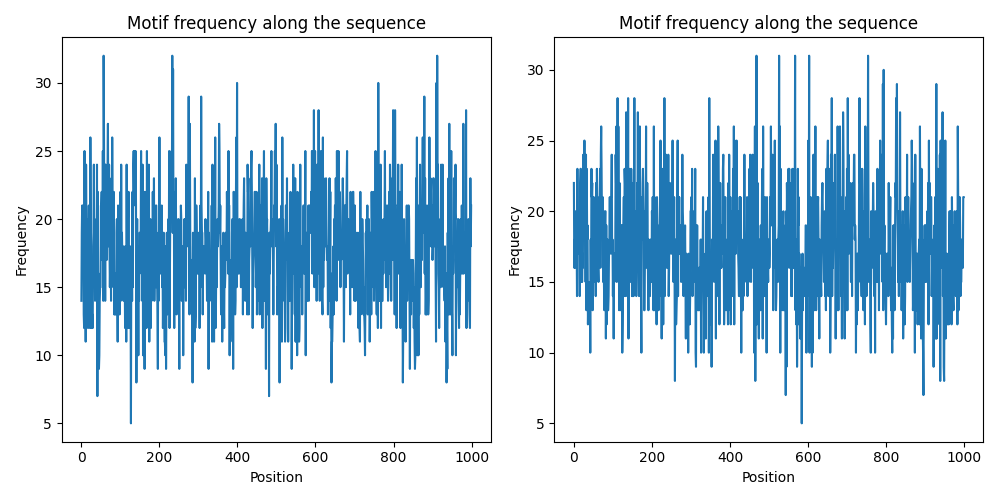
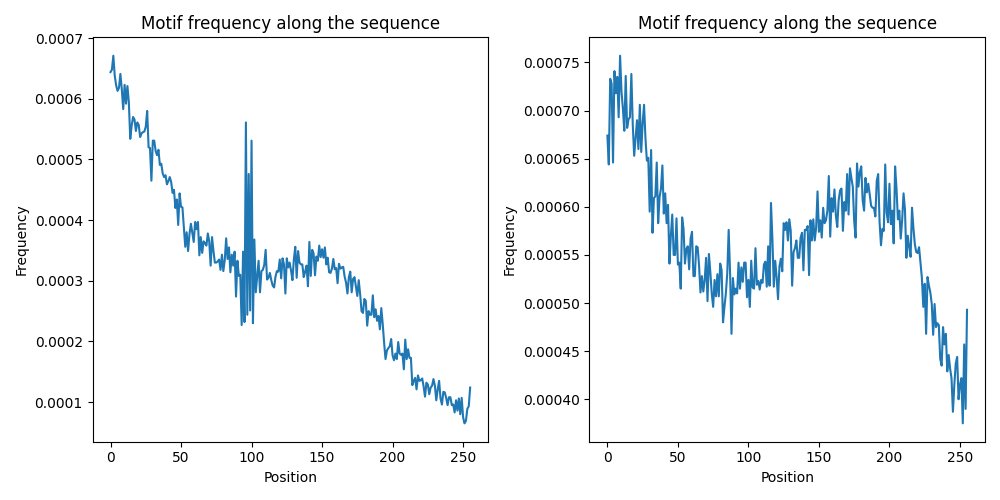
Add lcs metric and numba version

diff --git a/src/utils/metrics.py b/src/utils/metrics.py
@@ -5,8 +5,12 @@
 import torch
 import numpy as np
 import time
-
-
+import matplotlib.pyplot as plt
+import seaborn as sns
+import numba
+from scipy.spatial.distance import cdist
+from numba.typed import Dict, List
+from numba import types
 ######## DIVERSITY ########
 def count_ngrams(one_hot: np.ndarray, n: int):
     """Efficiently counts unique n-grams using vectorized operations."""
@@ -36,7 +40,7 @@ def diversity(one_hot: torch.Tensor | np.ndarray, n_min: int = 10, n_max: int = 
     product of ratios between the unique amount of n-grams found in a set of generated DNA sequences D
     and the number of n-grams found.
     
-    ref: DiscDiff, it searches for all n-grams with n \in [10, 11, 12]
+    ref: DiscDiff, it searches for all n-grams with n \\in [10, 11, 12]
 
     This metric assesses the variety within the generated DNA sequences
     """
@@ -69,11 +73,237 @@ def s_fid_inception_distance():
     pass
 
 ######### LENGTH OF LONGEST ALIGNMENT ########
-def longest_alignment(ref: np.ndarray | torch.Tensor, gen: np.ndarray | torch.Tensor):
+
+def prepare_lcs(ref, gen):
+    ref_indices = np.array([prepare_single_seq_lcs(seq) for seq in ref])
+    gen_indices = np.array([prepare_single_seq_lcs(seq) for seq in gen])
+    print("ref_indices: ", ref_indices.shape)
+    print("gen_indices: ", gen_indices.shape)
+    return ref_indices, gen_indices
+
+def prepare_single_seq_lcs(one_hot_seq):
+    """
+    This function prepares the input to the longest_alignment function.
+    """
+    # Convert one-hot encoded sequences to character sequences
+    # The numpy array are N x 256 x 5
+    # The third dimension is the one-hot encoding of the sequence in order "ACGTN"
+    # We need to convert it to a sequence of characters
+    return np.argmax(one_hot_seq, axis=-1)
+    # Convert to list of strings
+
+def filter_only_promising_pairs(ref, gen, th: float = 0.3):
+    """
+    Compute hamming distance"
+    """
+    dist_matrix = cdist(ref, gen, metric="hamming")
+    return np.argwhere(dist_matrix < th)
+
+@numba.njit(parallel=True)
+def numba_compute_hamming_distance(ref, gen):
+    """
+    Compute the Hamming distance between two sets of one-hot encoded sequences.
+    
+    ref: (N, 256, 5) NumPy array
+    gen: (M, 256, 5) NumPy array
+    
+    Returns:
+        dist_matrix: (N, M) NumPy array with Hamming distances.
+    """
+    N, _ = ref.shape
+    M, _ = gen.shape
+    dist_matrix = np.zeros((N, M), dtype=np.float32)
+
+    for i in numba.prange(N):
+        for j in range(M):
+            dist_matrix[i, j] = np.sum(ref[i] != gen[j]) / ref.shape[1]  # Hamming distance
+
+    return dist_matrix
+
+def compute_lcs(ref,gen):
+    ref_indices, gen_indices = prepare_lcs(ref, gen)
+    filtered_pairs = filter_only_promising_pairs(ref_indices, gen_indices)
+    lcs_results = {}
+    max_seq_length = 500
+    for i, j in filtered_pairs:
+        lcs_results[(i, j)] = longest_alignment(ref_indices[i], gen_indices[j], max_seq_length)
+    return lcs_results
+
+
+ #Define the types for the numba functions
+key_type = numba.types.UniTuple(numba.types.int32, 2)
+value_type = numba.types.ListType(types.UniTuple(types.int32,2))
+@numba.njit(cache=True, parallel=True)
+def numba_compute_lcs(ref_indices, gen_indices):
+    dist_matrix = numba_compute_hamming_distance(ref_indices, gen_indices)
+
+    # Filter pairs based on a distance threshold
+    threshold = 0.3
+    filtered_pairs = [(i, j) for i in range(dist_matrix.shape[0]) 
+                              for j in range(dist_matrix.shape[1]) if dist_matrix[i, j] < threshold]
+
+    # Define the type of results explicitly
+    results = List()  # Use Numba-typed List
+    for _ in range(len(filtered_pairs)):
+        # Initialize each element as a tuple of the correct type
+        results.append(((0, 0), List.empty_list(key_type)))
+
+    # Parallel loop to compute LCS
+    N = len(filtered_pairs)
+    for idx in numba.prange(N):
+        i, j = filtered_pairs[idx]
+        lcs_pairs = numba_longest_alignment(ref_indices[i], gen_indices[j])
+
+        typed_lcs_pairs = List.empty_list(key_type)
+        for pair in lcs_pairs:
+            typed_lcs_pairs.append(pair)
+        
+        key = (np.int32(i), np.int32(j))
+        results[idx] = (key, typed_lcs_pairs)  # This is now type-consistent
+
+    # Convert results to a dictionary
+    lcs_results = Dict.empty(
+        key_type=key_type,
+        value_type=value_type,
+    )
+    for (i, j), lcs in results:
+        lcs_results[(i, j)] = lcs
+
+    return lcs_results
+   
+def longest_alignment(A, B):
     """
     This function computes the length of the longest alignment between two sets of DNA sequences.
     """
-    pass
+    import bisect
+    # reconvert array to sequence of characters
+    m, n = len(A), len(B)
+
+    # Step 1: build linked lists
+    matchlist = [[] for k in range(m + 1)]
+    # Note line numbers in reverse order
+    aa = sorted(zip(A, range(1, m+1)), key=lambda t: (t[0], -t[1]))
+    bb = sorted(zip(B, range(1, n+1)), key=lambda t: (t[0], -t[1]))
+    ai = bi = 0
+    while ai < m and bi < n:
+        av, bv = aa[ai][0], bb[bi][0]
+        if av < bv:
+            ai += 1
+        elif av > bv:
+            bi += 1
+        else:
+            k = aa[ai][1]
+            while bi < n and bb[bi][0] == bv:
+                matchlist[k] += [bb[bi][1]]
+                bi += 1
+            ai += 1
+            while ai < m and aa[ai][0] == av:
+                matchlist[aa[ai][1]] = matchlist[k]
+                ai += 1
+
+    # Step 2: initialize the THRESH array
+    thresh = [n+1] * (m + 1)
+    thresh[0] = 0
+
+    # Step 3: compute successive THRESH values
+    link = [None] * (m+1)
+    for i in range(1, m+1):
+        for j in matchlist[i]:
+            #find k such that thresh[k-1] < j <= thresh[k]
+            k = bisect.bisect_left(thresh, j)
+            #assert thresh[k-1] < j <= thresh[k]
+            if j < thresh[k]:
+                thresh[k] = j
+                link[k] = (i, j, link[k-1])
+                #print(f'dmatch({i}, {j})')
+                #assert A[i-1] == B[j-1]
+
+    # Step 4: recover longest common subsequence pairs in reverse order
+    k = 0
+    while k < m and thresh[k+1] != n + 1:
+        k += 1
+    p = link[k]
+    # v will hold (i,j) pairs
+    v = []
+    while p != None:
+        v.append(p[:2])
+        p = p[2]
+    v.reverse()
+
+    #print(f'lcslen: {len(v)=}')
+    return v
+
+@numba.njit(cache=True)
+def numba_longest_alignment(A, B):
+    m, n = len(A), len(B)
+
+    # Define the type of matchlist explicitly
+    matchlist = List()
+    for _ in range(m + 1):
+        matchlist.append(List.empty_list(types.int32))  # Inner lists are of type List(int32)
+    # Prepare NumPy arrays for sorting
+    aa = np.zeros((m, 2), dtype=np.int32)
+    bb = np.zeros((n, 2), dtype=np.int32)
+    
+    for i in range(m):
+        aa[i, 0] = A[i]
+        aa[i, 1] = i + 1
+    for i in range(n):
+        bb[i, 0] = B[i]
+        bb[i, 1] = i + 1
+
+    aa_sorted = aa[np.argsort(aa[:, 0])]
+    bb_sorted = bb[np.argsort(bb[:, 0])]
+
+    # Build matchlist
+    ai = bi = 0
+    while ai < m and bi < n:
+        av, bv = aa_sorted[ai, 0], bb_sorted[bi, 0]
+        if av < bv:
+            ai += 1
+        elif av > bv:
+            bi += 1
+        else:
+            k = aa_sorted[ai, 1]
+            matches = List.empty_list(types.int32)
+            while bi < n and bb_sorted[bi, 0] == bv:
+                matches.append(bb_sorted[bi, 1])
+                bi += 1
+            matchlist[k] = matches
+            ai += 1
+
+    # Initialize THRESH array
+    thresh = np.full(m + 1, n + 1, dtype=np.int32)
+    thresh[0] = 0
+
+    # Initialize link array
+    link = np.full((m + 1, 2), -1, dtype=np.int32)
+
+    # Compute successive THRESH values
+    for i in range(1, m + 1):
+        if matchlist[i]:
+            for j in matchlist[i]:
+                k = 0
+                while k < m and thresh[k] < j:
+                    k += 1
+                if j < thresh[k]:
+                    thresh[k] = j
+                    link[k] = [i, j]
+
+    # Recover longest common subsequence pairs
+    k = 0
+    while k < m and thresh[k + 1] != n + 1:
+        k += 1
+
+    # Backtrace
+    v = []
+    p = k
+    while p >= 0:
+        if link[p, 0] != -1:
+            v.append((link[p, 0], link[p, 1]))
+        p -= 1
+
+    return v[::-1]  # Reverse order
 
 ######## MOTIF CORRELATION ########
 def find_subsequence(one_hot, subsequence: str, char_list: str = "ACGNT"):
@@ -100,23 +330,21 @@ def plot_motif_frequence_position(distr, fig, ax):
     ax.set_ylabel("Frequency")
     return ax
 
-def motif_correlation(one_hot1, one_hot2, motif:str="TATAWAW", onehot: str = "ACGTN"):
-    distr1 = find_subsequence(one_hot1, motif, onehot).sum(axis=0) if isinstance(one_hot1, np.ndarray) else find_subsequence(one_hot1, motif, onehot).float().sum(dim=0)
-    distr2 = find_subsequence(one_hot2, motif, onehot).sum(xis=0) if isinstance(one_hot2, np.ndarray) else find_subsequence(one_hot2, motif, onehot).float().sum(dim=0)
+def motif_correlation(one_hot1, one_hot2, motif:str="TATAWAW", onehot: str = "ACGTN", figname:str = "motif_correlation.png"):
+    distr1 = find_subsequence(one_hot1, motif, onehot).mean(axis=0) if isinstance(one_hot1, np.ndarray) else find_subsequence(one_hot1, motif, onehot).float().mean(dim=0)
+    distr2 = find_subsequence(one_hot2, motif, onehot).mean(axis=0) if isinstance(one_hot2, np.ndarray) else find_subsequence(one_hot2, motif, onehot).float().mean(dim=0)
 
     # Plot the motif frequency along the sequence
     # TODO: fix style of the plot
-    import seaborn as sns
-    import matplotlib.pyplot as plt
     fig, ax = plt.subplots(1, 2, figsize=(10, 5))
     ax[0] = plot_motif_frequence_position(distr1, fig, ax[0])
     ax[1] = plot_motif_frequence_position(distr2, fig, ax[1]) 
     fig.tight_layout()
-    fig.savefig("distr.png")
+    fig.savefig(figname)
 
     # TODO: do we want to use the average position across sequences of each dataset or the frequency to evaluate correlation?
-    average_distr1 = distr1 / one_hot1.shape[0]
-    average_distr2 = distr2 / one_hot2.shape[0]
+    #average_distr1 = distr1 / one_hot1.shape[0]
+    #average_distr2 = distr2 / one_hot2.shape[0]
     if isinstance(one_hot1, np.ndarray) and isinstance(one_hot2, np.ndarray):
         return np.corrcoef(distr1, distr2)[0,1]
     elif isinstance(one_hot1, torch.Tensor) and isinstance(one_hot2, torch.Tensor):
@@ -124,21 +352,56 @@ def motif_correlation(one_hot1, one_hot2, motif:str="TATAWAW", onehot: str = "AC
     else:
         raise TypeError("Both inputs must be of the same type, either numpy arrays or torch tensors")
 
+
 if __name__ == "__main__":
     # Generate a tensor of 100x5 one hot encoded sequences
-    ref = torch.randint(0, 2, (1000, 1000, 5))
-    gen = torch.randint(0, 2, (1000, 1000, 5))
-    # convert tensors to numpy array
-    print("Computing motif correlation...")
-    tic = time.time()
-    corr = motif_correlation(ref, gen)
-    toc = time.time()
-    print(f"Motif correlation computed in {toc - tic:.2f}s as value {corr}")
-    print("Computing diversity...")
-    tic = time.time()
-    gen = gen.numpy()
-    ref = ref.numpy()
-    div_perc_delta = delta_diversity(ref, gen)
-    toc = time.time()
-    print(f"Diversity of generated sequences and ref sequences in {toc-tic:.2f}s with delta {div_perc_delta:.3f}%")
-    toc = time.time()
+    import os
+    from pathlib import Path
+    current_dir = Path(os.getcwd())
+    data_dir = current_dir / "data"
+    ref = np.load(data_dir / "dataset_compressed.npz")
+    gen = np.load(data_dir / "generated.npz")
+
+    print(ref.keys, ref["data"].shape, type(ref))
+    print(gen.keys, gen["data"].shape, type(gen))
+    
+    # WORK WITH A SUBSET
+    N_list = [1e3, 1e4, 1e5, 1e6]
+    for N in N_list:
+        N = int(N)
+        print(f"Working with a subset of {N} sequences")
+    # randomly sampled without replacement
+        if N > ref["data"].shape[0] or N > gen["data"].shape[0]:
+            N = min(ref["data"].shape[0], gen["data"].shape[0])
+        ref_indices = np.random.choice(ref["data"].shape[0], N, replace=False)
+        gen_indices = np.random.choice(gen["data"].shape[0], N, replace=False)
+        ref_data = ref["data"][ref_indices]
+        gen_data = gen["data"][gen_indices]
+         #convert tensors to numpy array
+        #print("Computing motif correlation...")
+        #tic = time.time()
+        #corr = motif_correlation(ref_data, gen_data, figname=f"motif_correlation_{N}.png")
+        #toc = time.time()
+        #print(f"Motif correlation computed in {toc - tic:.2f}s as value {corr}")
+        #print("Computing diversity...")
+        #tic = time.time()
+        #gen = gen.numpy()
+        #ref = ref.numpy()
+        #div_perc_delta = delta_diversity(ref, gen)
+        #toc = time.time()
+        #print(f"Diversity of generated sequences and ref sequences in {toc-tic:.2f}s with delta {div_perc_delta:.3f}%")
+        #toc = time.time()
+        print("Computing longest alignment...")
+        tic = time.time()
+        ref_indices = np.array([np.argmax(seq,axis=-1) for seq in ref_data])
+        gen_indices = np.array([np.argmax(seq,axis=-1) for seq in gen_data])
+
+        lcs_results = numba_compute_lcs(ref_indices, gen_indices)
+        fig, ax = plt.subplots(1, 1, figsize=(10, 5))
+        ax.hist([len(lcs_results[k]) for k in lcs_results], bins=50)
+        ax.set_title("Length of longest alignment")
+        ax.set_xlabel("Length")
+        ax.set_ylabel("Frequency")
+        fig.savefig(f"longest_alignment_{N}.png")
+        toc = time.time()
+        print(f"Longest alignment computed in {toc - tic:.2f}s")
